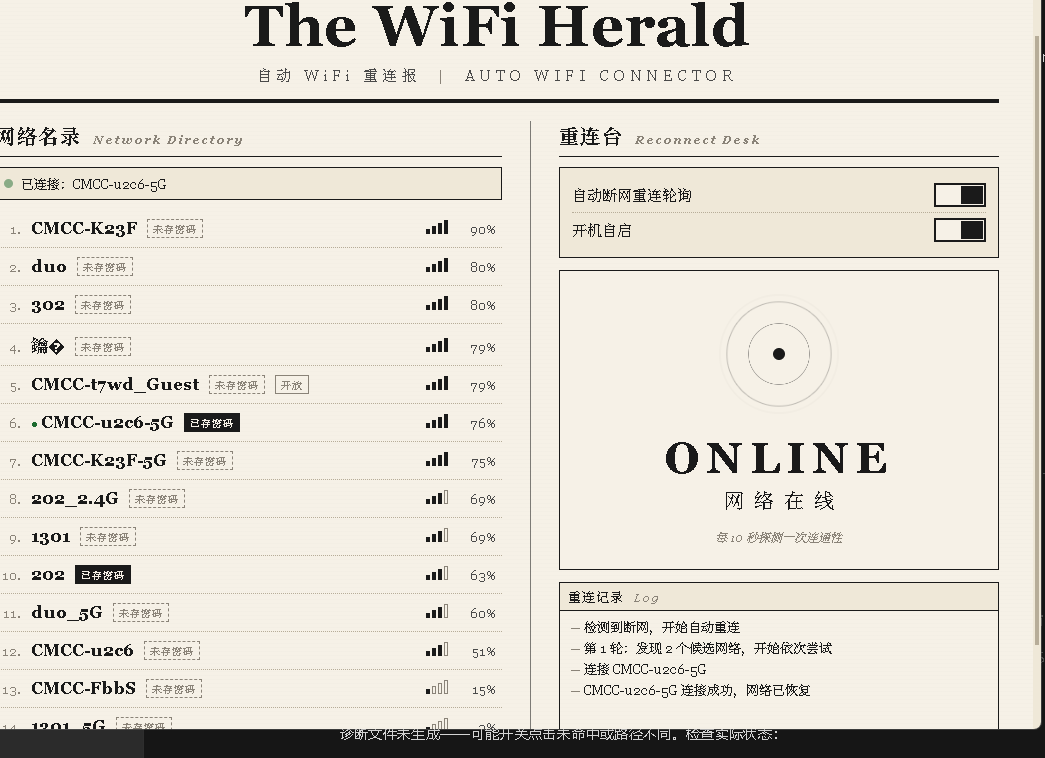
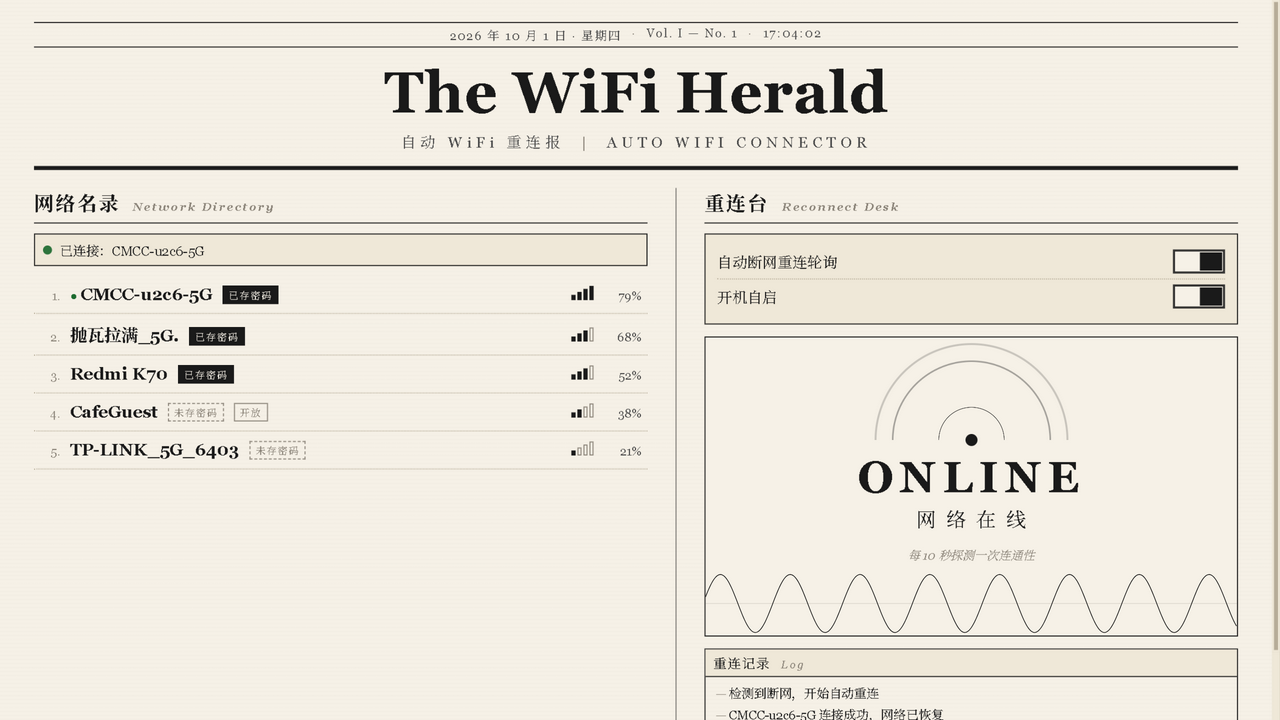
feat: 状态动画改版为物理现实形态
- 在线状态：同心圆波纹改为发射点向上扩散的弧形辐射波
- 舞台底部新增连通性示波器（canvas）：波形振幅映射连通性，
  在线满幅正弦波、离线塌缩为噪声抖动、连接尝试时振幅重建，
  恢复中波形显示为红色
- 更新 README 与项目页截图
- 版本号 0.2.5

diff --git a/ui/app.js b/ui/app.js
@@ -137,6 +137,7 @@ function renderMonitor(snapshot) {
   for (const [name, el] of Object.entries(els.views)) {
     el.classList.toggle("hidden", name !== view);
   }
+  waveSetState(view, snapshot.current >= 0);
 
   if (view === "recovering") {
     els.roundLine.textContent = `第 ${snapshot.round} 轮尝试 · 共 ${snapshot.candidates.length} 个候选`;
@@ -187,6 +188,76 @@ function renderLog(lines) {
   els.log.scrollTop = els.log.scrollHeight;
 }
 
+/* ---------- 连通性示波器 ----------
+ * 波形振幅映射连通性：在线为满幅正弦波，离线塌缩为噪声抖动，
+ * 尝试连接时振幅重建。颜色：在线墨色，恢复中红色。
+ */
+
+const wave = {
+  canvas: $("wave"),
+  amp: 0,        // 当前振幅（平滑过渡）
+  targetAmp: 0,  // 目标振幅，由状态驱动
+  color: "#1a1a1a",
+  phase: 0,
+};
+
+function waveSetState(view, currentConnecting) {
+  if (view === "online") {
+    wave.targetAmp = 1;
+    wave.color = "#1a1a1a";
+  } else if (view === "recovering") {
+    // 有候选正在连接时振幅尝试重建，否则塌缩
+    wave.targetAmp = currentConnecting ? 0.45 : 0.08;
+    wave.color = "#8f1d1d";
+  } else {
+    wave.targetAmp = 0.15;
+    wave.color = "#8a8378";
+  }
+}
+
+function waveResize() {
+  const c = wave.canvas;
+  const dpr = window.devicePixelRatio || 1;
+  const rect = c.getBoundingClientRect();
+  c.width = Math.max(1, Math.round(rect.width * dpr));
+  c.height = Math.max(1, Math.round(rect.height * dpr));
+}
+
+function waveFrame() {
+  const c = wave.canvas;
+  const ctx = c.getContext("2d");
+  const w = c.width;
+  const h = c.height;
+  const mid = h / 2;
+  wave.amp += (wave.targetAmp - wave.amp) * 0.04;
+  wave.phase += 0.09;
+
+  ctx.clearRect(0, 0, w, h);
+  // 中线
+  ctx.strokeStyle = "rgba(138,131,120,0.35)";
+  ctx.lineWidth = 1;
+  ctx.beginPath();
+  ctx.moveTo(0, mid);
+  ctx.lineTo(w, mid);
+  ctx.stroke();
+  // 波形
+  ctx.strokeStyle = wave.color;
+  ctx.lineWidth = Math.max(1.5, (window.devicePixelRatio || 1) * 1.2);
+  ctx.beginPath();
+  const maxAmp = mid - 6;
+  for (let x = 0; x <= w; x += 2) {
+    const carrier = Math.sin(x * 0.045 - wave.phase) * wave.amp * maxAmp;
+    const noise = (Math.random() - 0.5) * (1 - wave.amp) * 7;
+    const y = mid + carrier + noise;
+    if (x === 0) ctx.moveTo(x, y);
+    else ctx.lineTo(x, y);
+  }
+  ctx.stroke();
+  requestAnimationFrame(waveFrame);
+}
+
+window.addEventListener("resize", waveResize);
+
 /* ---------- 工具 ---------- */
 
 function escapeHtml(text) {
@@ -198,6 +269,9 @@ function escapeHtml(text) {
 /* ---------- 初始化 ---------- */
 
 async function init() {
+  waveResize();
+  requestAnimationFrame(waveFrame);
+
   await listen("wifi-list", (event) => renderWifiList(event.payload));
   await listen("monitor", (event) => renderMonitor(event.payload));
 

diff --git a/ui/style.css b/ui/style.css
@@ -291,7 +291,7 @@ body {
   flex-direction: column;
   align-items: center;
   justify-content: center;
-  padding: 18px;
+  padding: 18px 18px 72px; /* 底部留给示波器 */
   animation: view-in 0.4s ease both;
 }
 
@@ -314,36 +314,60 @@ body {
   color: var(--ink-faint);
 }
 
-/* 在线波纹 */
+/* 弧形辐射波：WiFi 信号的物理形态——从发射点向上扩散的弧。
+   圆环只显示上半部分（clip-path 裁掉下半），圆心位于发射点。 */
 
-.ripple-box {
+.emitter {
   position: relative;
-  width: 120px;
-  height: 120px;
-  margin-bottom: 18px;
+  width: 240px;
+  height: 110px;
+  margin-bottom: 6px;
 }
 
-.ripple {
-  position: absolute;
-  inset: 0;
-  border: 1px solid var(--ink);
-  border-radius: 50%;
-  opacity: 0;
-  animation: ripple 2.8s cubic-bezier(0.2, 0.6, 0.4, 1) infinite;
-}
-
-.ripple.r2 { animation-delay: 0.9s; }
-.ripple.r3 { animation-delay: 1.8s; }
-
-.ripple-core {
+.emitter-dot {
   position: absolute;
   left: 50%;
-  top: 50%;
+  bottom: 0;
   width: 12px;
   height: 12px;
-  margin: -6px 0 0 -6px;
+  margin-left: -6px;
   border-radius: 50%;
   background: var(--ink);
+}
+
+.arc {
+  position: absolute;
+  left: 50%;
+  bottom: -94px;
+  width: 200px;
+  height: 200px;
+  margin-left: -100px;
+  border: 2px solid var(--ink);
+  border-radius: 50%;
+  clip-path: inset(0 0 50% 0);
+  opacity: 0;
+  animation: arcwave 2.6s cubic-bezier(0.2, 0.5, 0.4, 1) infinite;
+}
+
+.arc.a2 { animation-delay: 0.85s; }
+.arc.a3 { animation-delay: 1.7s; }
+
+@keyframes arcwave {
+  0% { transform: scale(0.15); opacity: 0.9; }
+  70% { opacity: 0.3; }
+  100% { transform: scale(1); opacity: 0; }
+}
+
+/* 连通性示波器 */
+
+.wave {
+  position: absolute;
+  left: 0;
+  right: 0;
+  bottom: 0;
+  width: 100%;
+  height: 64px;
+  pointer-events: none;
 }
 
 /* 断网恢复 */
@@ -511,12 +535,6 @@ body {
 }
 
 /* ---------- 动画 ---------- */
-
-@keyframes ripple {
-  0% { transform: scale(0.12); opacity: 0.9; }
-  70% { opacity: 0.25; }
-  100% { transform: scale(1); opacity: 0; }
-}
 
 @keyframes blink {
   50% { opacity: 0; }

diff --git a/ui/index.html b/ui/index.html
@@ -61,11 +61,11 @@
 
           <!-- 在线 -->
           <div class="stage-view hidden" id="view-online">
-            <div class="ripple-box">
-              <span class="ripple r1"></span>
-              <span class="ripple r2"></span>
-              <span class="ripple r3"></span>
-              <span class="ripple-core"></span>
+            <div class="emitter">
+              <span class="arc a1"></span>
+              <span class="arc a2"></span>
+              <span class="arc a3"></span>
+              <span class="emitter-dot"></span>
             </div>
             <div class="big-word">ONLINE</div>
             <div class="big-cn">网络在线</div>
@@ -81,6 +81,9 @@
             <div class="round-line" id="round-line">第 1 轮尝试</div>
             <ul class="attempt-list" id="attempt-list"></ul>
           </div>
+
+          <!-- 连通性示波器：振幅映射连通性，贯穿所有状态 -->
+          <canvas class="wave" id="wave"></canvas>
         </div>
 
         <div class="log-box">

diff --git a/tests/preview.html b/tests/preview.html
@@ -59,11 +59,11 @@
           </div>
 
           <div class="stage-view hidden" id="view-online">
-            <div class="ripple-box">
-              <span class="ripple r1"></span>
-              <span class="ripple r2"></span>
-              <span class="ripple r3"></span>
-              <span class="ripple-core"></span>
+            <div class="emitter">
+              <span class="arc a1"></span>
+              <span class="arc a2"></span>
+              <span class="arc a3"></span>
+              <span class="emitter-dot"></span>
             </div>
             <div class="big-word">ONLINE</div>
             <div class="big-cn">网络在线</div>
@@ -78,6 +78,8 @@
             <div class="round-line" id="round-line">第 1 轮尝试</div>
             <ul class="attempt-list" id="attempt-list"></ul>
           </div>
+
+          <canvas class="wave" id="wave"></canvas>
         </div>
 
         <div class="log-box">

diff --git a/CHANGELOG.md b/CHANGELOG.md
@@ -2,6 +2,12 @@
 
 格式遵循 [Keep a Changelog](https://keepachangelog.com/zh-CN/1.1.0/)，版本号遵循[语义化版本](https://semver.org/lang/zh-CN/)。
 
+## [0.2.5] - 2026-10-01
+
+### 变更
+
+- 状态动画改版为贴近物理现实的形态：在线状态为发射点向上扩散的弧形辐射波（WiFi 信号的物理形态）；舞台底部新增连通性示波器，波形振幅映射连通性——在线满幅正弦波、离线塌缩为噪声抖动、尝试连接时振幅重建，恢复中波形为红色
+
 ## [0.2.4] - 2026-10-01
 
 ### 修复
@@ -72,6 +78,7 @@
 - 独立保底脚本 tools/keepalive.py
 - GitHub Pages 项目页
 
+[0.2.5]: https://github.com/MisakaMikoto128/auto_wifi_connector/compare/v0.2.4...v0.2.5
 [0.2.4]: https://github.com/MisakaMikoto128/auto_wifi_connector/compare/v0.2.3...v0.2.4
 [0.2.3]: https://github.com/MisakaMikoto128/auto_wifi_connector/compare/v0.2.2...v0.2.3
 [0.2.2]: https://github.com/MisakaMikoto128/auto_wifi_connector/compare/v0.2.1...v0.2.2
